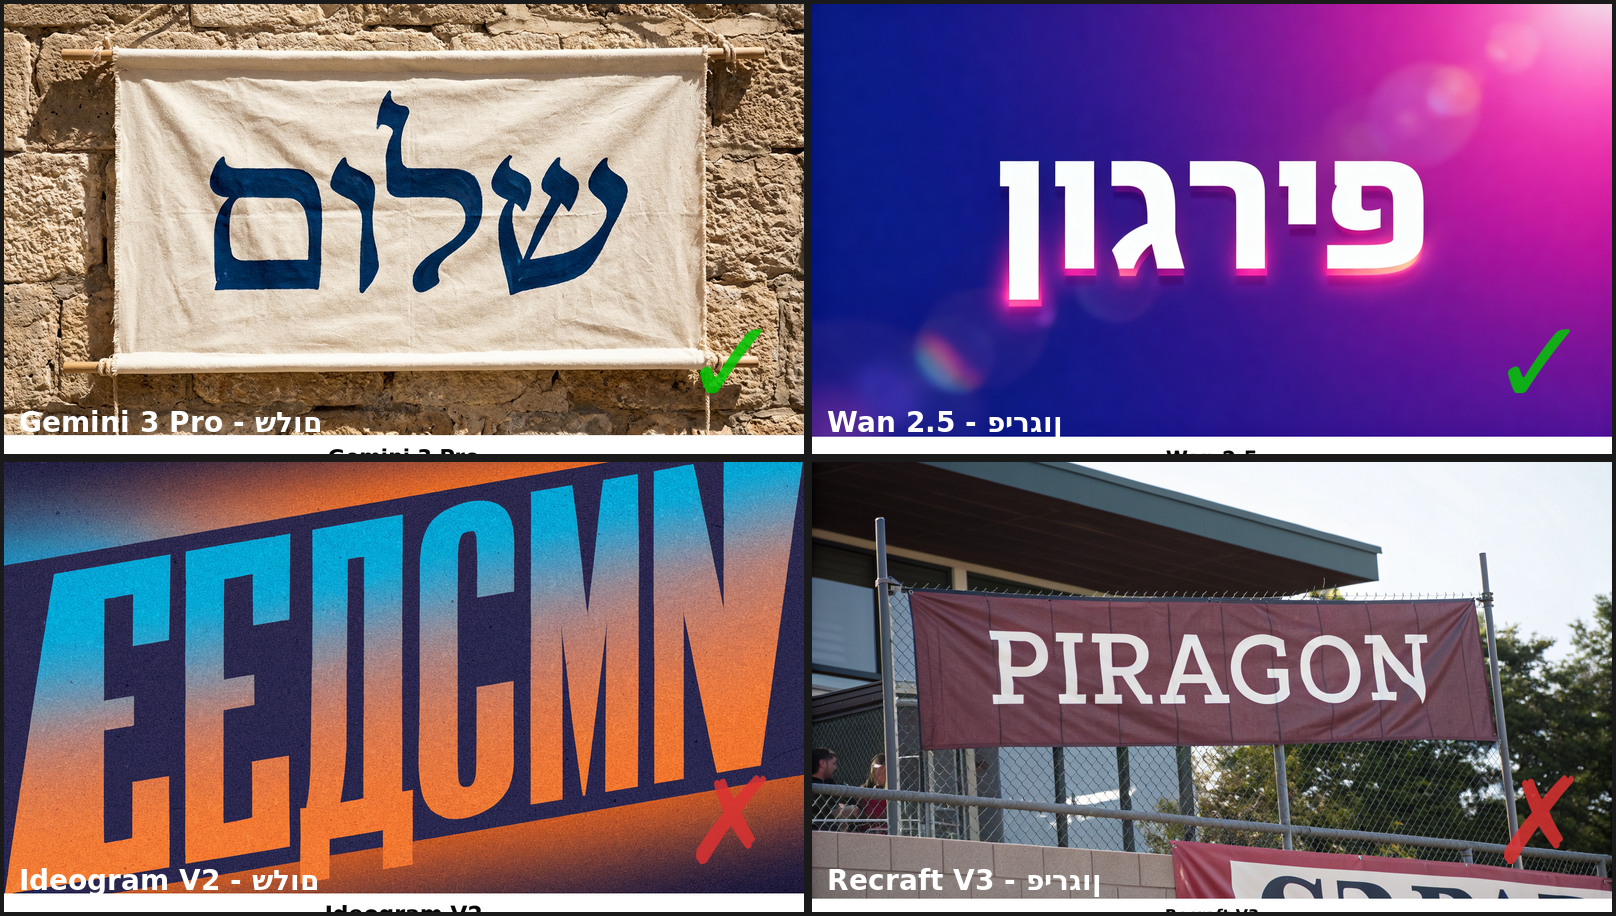
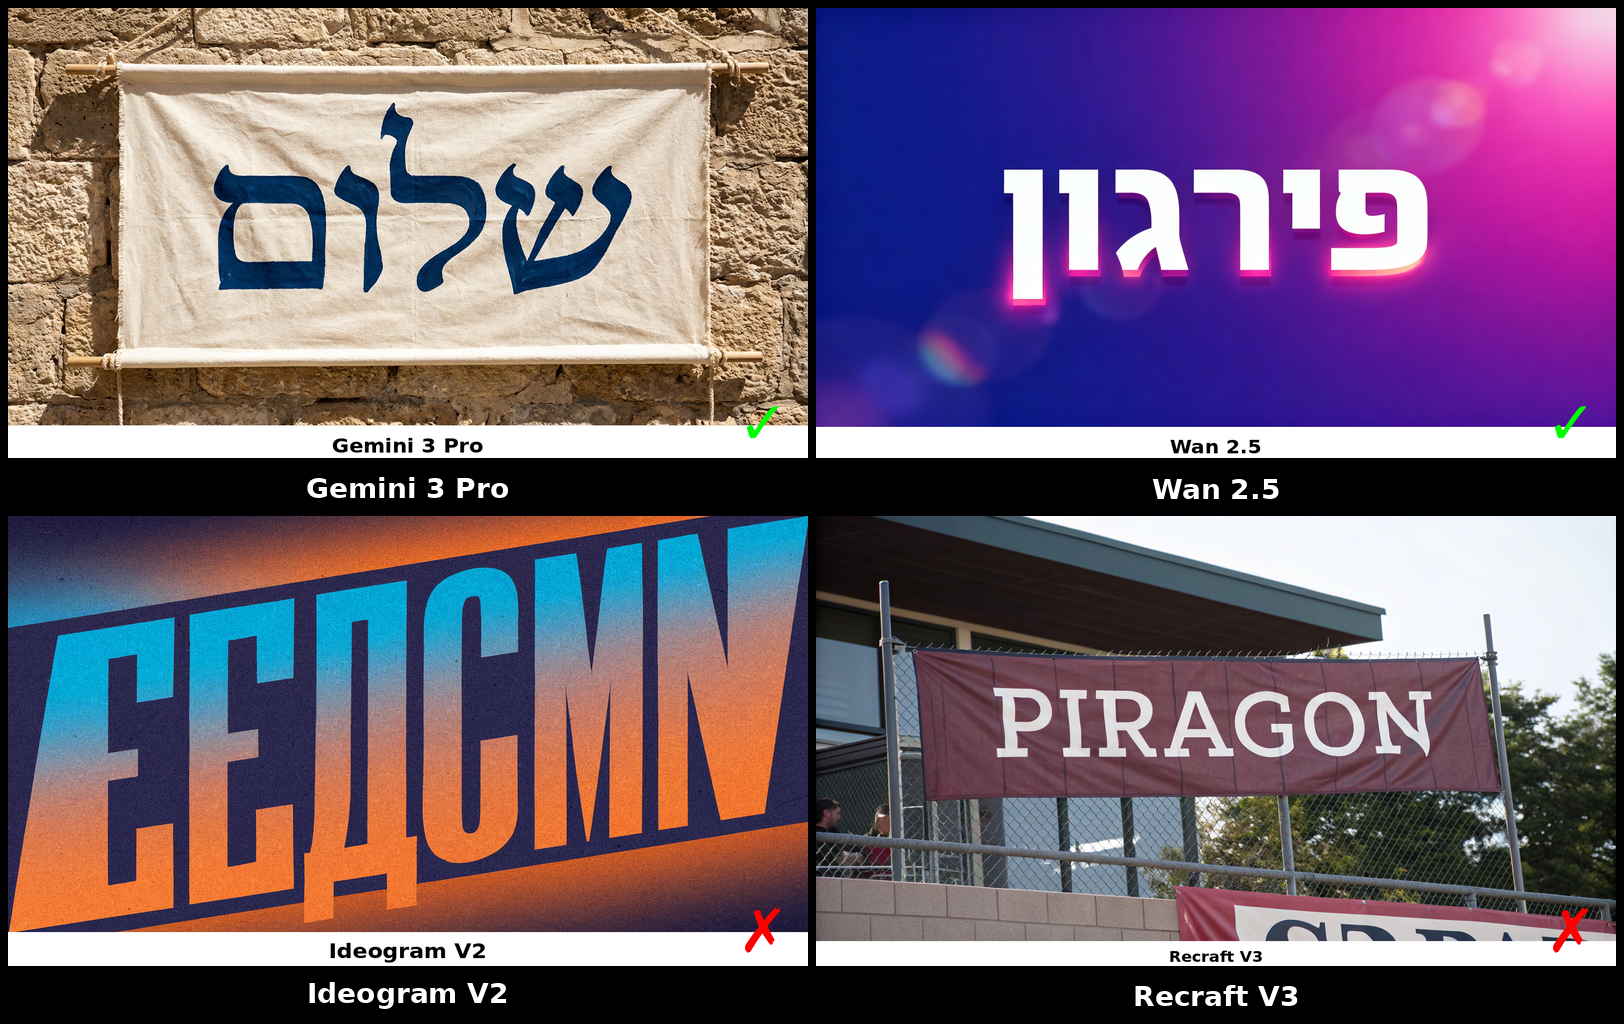
Clean up repository structure
- Add .gitignore to exclude .env and common dev files
- Consolidate prompts and criteria into prompts.md
- Remove redundant files (test-words.md, criteria.md, CLAUDE.md)
- Fix hero composite image (remove problematic Hebrew labels)
- Update models.md with cleaner formatting
- Update README with repository structure section

diff --git a/create_hero.py b/create_hero.py
@@ -1,0 +1,108 @@
+#!/usr/bin/env python3
+"""Create hero composite image for README with proper RTL Hebrew text."""
+
+from PIL import Image, ImageDraw, ImageFont
+from pathlib import Path
+
+def reverse_hebrew(text):
+    """Reverse Hebrew text for proper visual display in LTR rendering context."""
+    # PIL renders LTR, so Hebrew characters need to be reversed for correct visual order
+    return text[::-1]
+
+def create_hero_composite():
+    # Images to include: 2 good (top row), 2 bad (bottom row)
+    images_info = [
+        # (path, model_name, is_good)
+        ("outputs/shalom/gemini-3-pro.png", "Gemini 3 Pro", True),
+        ("outputs/firgun/wan-2-5.png", "Wan 2.5", True),
+        ("outputs/shalom/ideogram-v2.png", "Ideogram V2", False),
+        ("outputs/firgun/recraft-v3.png", "Recraft V3", False),
+    ]
+
+    # Configuration
+    thumb_width = 800
+    thumb_height = 450  # 16:9 aspect
+    label_height = 50
+    padding = 8
+    cols = 2
+    rows = 2
+
+    # Calculate total dimensions
+    total_width = cols * thumb_width + (cols + 1) * padding
+    total_height = rows * (thumb_height + label_height) + (rows + 1) * padding
+
+    # Create composite image
+    composite = Image.new('RGB', (total_width, total_height), color='black')
+    draw = ImageDraw.Draw(composite)
+
+    # Try to load a good font for Hebrew
+    font_paths = [
+        "/usr/share/fonts/truetype/dejavu/DejaVuSans-Bold.ttf",
+        "/usr/share/fonts/truetype/noto/NotoSansHebrew-Bold.ttf",
+        "/usr/share/fonts/truetype/freefont/FreeSansBold.ttf",
+    ]
+
+    font = None
+    for fp in font_paths:
+        try:
+            font = ImageFont.truetype(fp, 28)
+            break
+        except:
+            continue
+
+    if font is None:
+        font = ImageFont.load_default()
+
+    # Small font for checkmarks
+    small_font = None
+    for fp in font_paths:
+        try:
+            small_font = ImageFont.truetype(fp, 60)
+            break
+        except:
+            continue
+
+    for idx, (img_path, model_name, is_good) in enumerate(images_info):
+        row = idx // cols
+        col = idx % cols
+
+        x = padding + col * (thumb_width + padding)
+        y = padding + row * (thumb_height + label_height + padding)
+
+        # Load and resize image
+        img = Image.open(img_path)
+        img = img.resize((thumb_width, thumb_height), Image.LANCZOS)
+
+        # Paste image
+        composite.paste(img, (x, y))
+
+        # Add checkmark or X overlay
+        check_x = x + thumb_width - 70
+        check_y = y + thumb_height - 70
+        if is_good:
+            draw.text((check_x, check_y), "✓", fill=(0, 255, 0), font=small_font)
+        else:
+            draw.text((check_x, check_y), "✗", fill=(255, 0, 0), font=small_font)
+
+        # Add label with white background
+        label_y = y + thumb_height
+        draw.rectangle([x, label_y, x + thumb_width, label_y + label_height], fill='black')
+
+        # Create label text - just model name
+        label_text = model_name
+
+        # Center the text
+        bbox = draw.textbbox((0, 0), label_text, font=font)
+        text_width = bbox[2] - bbox[0]
+        text_x = x + (thumb_width - text_width) // 2
+        text_y = label_y + (label_height - (bbox[3] - bbox[1])) // 2
+
+        draw.text((text_x, text_y), label_text, fill='white', font=font)
+
+    # Save
+    output_path = "samples/hero-composite.png"
+    composite.save(output_path, quality=95)
+    print(f"Created: {output_path}")
+
+if __name__ == "__main__":
+    create_hero_composite()

diff --git a/models.md b/models.md
@@ -1,37 +1,37 @@
-# Models 
+# Models Tested
 
-https://fal.ai/explore/search?categories=text-to-image
+All models accessed via [fal.ai](https://fal.ai/explore/search?categories=text-to-image).
 
-Typography specific:
+## Series 1 (12 models)
 
-https://fal.ai/explore/search?categories=text-to-image&tags=typography
+### Flux Family
+- `fal-ai/flux-2`
+- `fal-ai/flux-2-pro`
+- `fal-ai/flux/dev`
 
-## Flux
+### Google
+- `fal-ai/imagen4/preview`
+- `fal-ai/gemini-3-pro-image-preview`
+- `fal-ai/nano-banana-pro`
 
-fal-ai/flux-2
-fal-ai/flux-2-pro
-fal-ai/flux/dev#
+### Wan
+- `fal-ai/wan-25-preview/text-to-image`
 
-## Google
+### Qwen
+- `fal-ai/qwen-image`
 
-fal-ai/imagen4/preview
-fal-ai/gemini-3-pro-image-preview
-fal-ai/nano-banana-pro
+### Ideogram
+- `fal-ai/ideogram/v2`
 
-# Wan
+### Others
+- `fal-ai/stable-diffusion-v35-large`
+- `fal-ai/recraft/v3/text-to-image`
+- `fal-ai/aura-flow`
 
-fal-ai/wan-25-preview/text-to-image
+## Series 2 (4 models)
 
-# Qwen
-
-fal-ai/qwen-image
-
-# Ideogram
-
-fal-ai/ideogram/v2
-
-----2---
-
-fal-ai/stable-diffusion-v35-large
-fal-ai/recraft/v3/text-to-image
-fal-ai/aura-flow
+Subset tested with Hebrew-language prompts:
+- `fal-ai/flux-2`
+- `fal-ai/flux/dev`
+- `fal-ai/nano-banana-pro`
+- `fal-ai/wan-25-preview/text-to-image`

diff --git a/README.md b/README.md
@@ -92,14 +92,21 @@ Flux 2, Flux 2 Pro, Flux Dev, Imagen 4, Ideogram V2, Qwen Image, SD 3.5 Large, R
 
 ![Recraft V3 Firgun](samples/bad-recraft-firgun.png)
 
-## Files
+## Repository Structure
 
-- `evaluation-results.md` - Detailed evaluation notes
-- `evaluation-results.json` - Results in JSON format
-- `hebrew-eval-report.pdf` - Full PDF report with all images
-- `outputs/shalom/` - All generated images for שלום
-- `outputs/firgun/` - All generated images for פירגון
-- `run_eval.py` - Script to run the evaluation
+```
+├── outputs/              # Series 1 generated images
+│   ├── shalom/          # All שלום outputs
+│   └── firgun/          # All פירגון outputs
+├── outputs-series2/      # Series 2 generated images (Hebrew prompts)
+├── samples/              # Curated sample images for README
+├── evaluation-results.md # Detailed evaluation notes
+├── evaluation-results.json
+├── hebrew-eval-report.pdf
+├── models.md             # List of models tested
+├── prompts.md            # Prompts and evaluation criteria
+└── run_eval.py           # Evaluation script
+```
 
 ## Running the Evaluation
 

diff --git a/prompts.md b/prompts.md
@@ -1,0 +1,40 @@
+# Prompts Used
+
+## Series 1: English Prompts
+
+### שלום (Shalom)
+```
+A banner graphic with the word שלום written in large font
+```
+
+### פירגון (Firgun)
+```
+A banner graphic with the word פירגון written in large font
+```
+
+## Series 2: Hebrew Prompts
+
+### שלום (Shalom)
+```
+גרפיקה עם המילה שלום בגופן גדול
+```
+
+### פירגון (Firgun)
+```
+גרפיקה עם המילה פירגון בגופן גדול
+```
+
+## Evaluation Criteria
+
+For reliable text generation within an image:
+
+### Pass
+- Accurate text (no pseudotext)
+- Standard unvowelised block script Hebrew (unless specifically requested, the model should not add vowels or render in cursive)
+- RTL: text rendered right-to-left
+
+### Fail
+- Text correct but offset to the left / rendered LTR
+- Pseudotext (Hebrew-like characters that don't form the correct word)
+- Unrequested vowelisation
+- Wrong script (Arabic, Russian, Latin, etc.)
